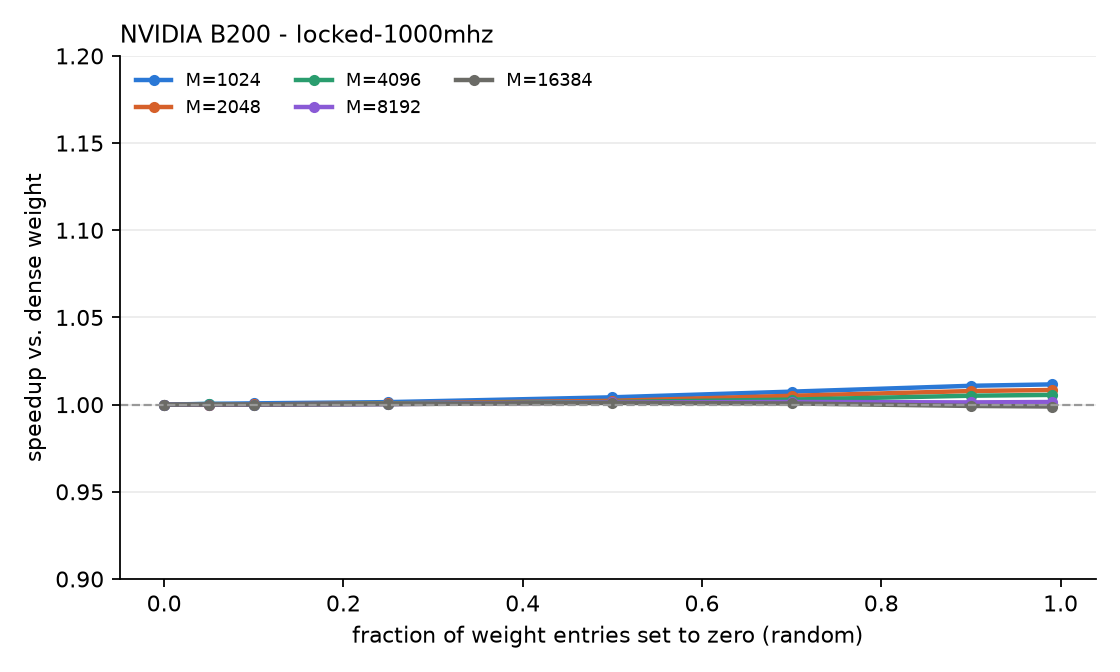
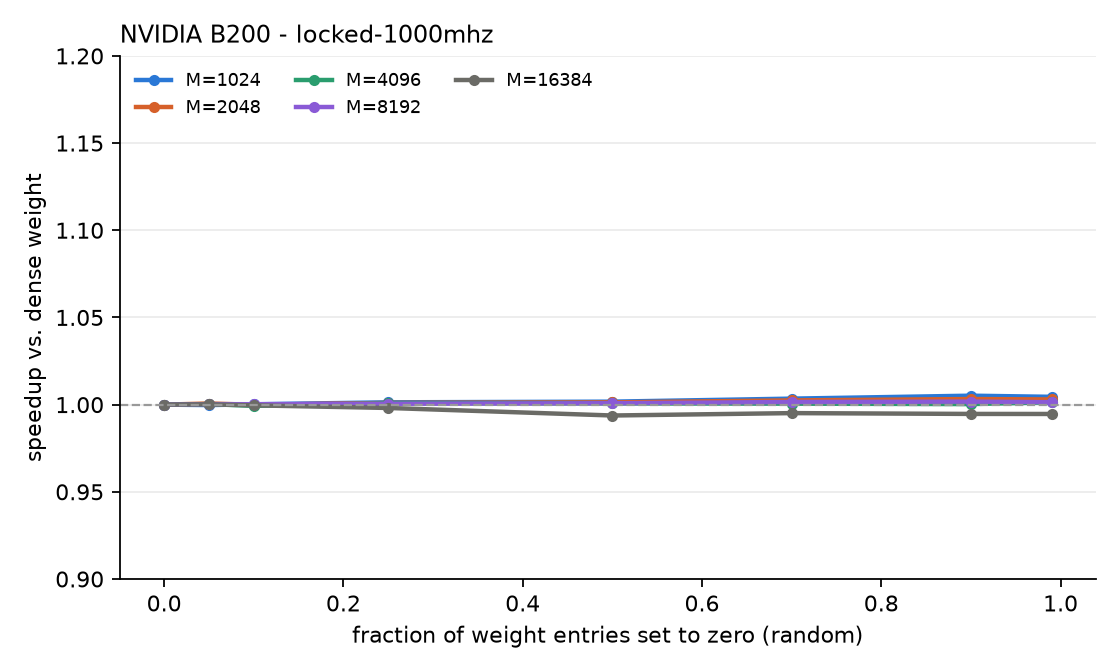
Post: results with L2 rotation, two-panel clock plots

Changed region(s): [[0.1875, 0.5625, 0.9688, 0.625]]

diff --git a/_posts/2026-10-02-sparse-matmul-speedup.md b/_posts/2026-10-02-sparse-matmul-speedup.md
@@ -22,8 +22,8 @@ _The code and raw results are available [here](https://github.com/GeometricAGI/b
 ### Setup
 
 - `x @ w` in bf16 with `w` of shape 8192x8192 and `x` of shape `M x 8192`, run with plain `torch.matmul` (cuBLAS). No sparse kernels are involved; the zeros are stored densely.
-- We set exactly that fraction of `w` to zero (5%, 10%, 25%, 50%, 70%, 90%, 99%), at positions chosen uniformly at random; the measured zero fraction matches to within 2e-7 and is stored in the results. Magnitude pruning (zeroing the smallest-magnitude weights) is also in the repo; it agrees at 99% zeros, but at 5% it is consistently faster than random zeroing on both GPUs (about 1.05-1.10x), which we have not explained, so we only tabulate random zeroing here. Everything below is "speedup over the dense weight", i.e. dense time divided by time with zeros, so values above 1.000 mean faster than dense.
-- Matmuls are captured in a CUDA graph and timed over replays. Every config is timed in 5 interleaved rounds (alternating order) and we report the median, so drift hits every config equally.
+- We set exactly that fraction of `w` to zero (5%, 10%, 25%, 50%, 70%, 90%, 99%), at positions chosen uniformly at random; the measured zero fraction matches to within 2e-7 and is stored in the results. Magnitude pruning (zeroing the smallest-magnitude weights) is also in the repo. It agrees with random zeroing at 99% zeros, but at 5% zeros it is faster than random zeroing on the B200 (1.02-1.10x vs. about 1.0x), which we have not explained, so we only tabulate random zeroing here. Everything below is "speedup over the dense weight", i.e. dense time divided by time with zeros, so values above 1.000 mean faster than dense.
+- Matmuls are captured in a CUDA graph and timed over replays. Each graph rotates through 8 independent copies of the weight, the activations and the output (each weight copy has its own random zero positions), so the same tensor is only touched again after at least a gigabyte of other traffic, far more than the L2 cache. Without this, the same 128 MiB weight would be re-read from cache on every replay. Every config is timed in 5 interleaved rounds (alternating order) and we report the median, so drift hits every config equally.
 - `M` is swept over 1024, 2048, 4096, 8192 and 16384. In an exploratory run on the H100 with smaller `M` (1, 16 and 128 rows) the matmul is memory-bound and sparsity made no difference (within 0.5%), so we start the published sweep at 1024.
 - Each GPU is run with free-running clocks and with the SM clock locked (`nvidia-smi -lgc`) at six values: 1000, 1200, 1400, 1600, 1800 MHz and the GPU's maximum (1980 MHz on the H100, 1965 MHz on the B200).
 
@@ -33,15 +33,15 @@ Speedup with 99% of the weights zeroed, free-running clocks:
 
 | | M=1024 | M=2048 | M=4096 | M=8192 | M=16384 |
 |---|---|---|---|---|---|
-| H100 | 1.206 | 1.149 | 1.112 | 1.092 | 1.111 |
-| B200 | 1.075 | 1.068 | 1.074 | 1.065 | 1.082 |
+| H100 | 1.125 | 1.111 | 1.107 | 1.148 | 1.175 |
+| B200 | 1.098 | 1.078 | 1.117 | 1.103 | 1.104 |
 
 ![H100, free-running clocks](/assets/sparse-matmul-speedup/h100-unlocked.png)
 
 ![B200, free-running clocks](/assets/sparse-matmul-speedup/b200-unlocked.png)
 
-- Speedup generally grows with the amount of zeros, up to about **1.21x on the H100 and 1.08x on the B200**.
-- At realistic sparsity (5-25%) the effect is mostly inside the run-to-run noise. On the H100 at `M=16384`, 5-50% zeros was 3-7% **slower** than dense.
+- Speedup generally grows with the amount of zeros, up to about **1.18x on the H100 and 1.12x on the B200**.
+- At realistic sparsity (5-25%) the effect is mostly inside the run-to-run noise. On the H100, 5-25% zeros was up to 2% **slower** than dense for several shapes.
 - Differences of a couple of percent between neighbouring points are within run-to-run noise.
 
 ### Locked clocks: the speedup depends on the lock
@@ -52,32 +52,33 @@ Speedup with 99% zeros for each locked SM clock (the first row is the free-runni
 
 | SM clock | M=1024 | M=2048 | M=4096 | M=8192 | M=16384 |
 |---|---|---|---|---|---|
-| free-running | 1.206 | 1.149 | 1.112 | 1.092 | 1.111 |
-| 1000 MHz | 1.000 | 1.000 | 1.000 | 1.000 | 1.001 |
-| 1200 MHz | 1.000 | 1.001 | 1.000 | 1.000 | 1.000 |
-| 1400 MHz | 1.000 | 1.001 | 1.024 | 1.001 | 1.050 |
-| 1600 MHz | 1.175 | 1.152 | 1.136 | 1.120 | 1.162 |
-| 1800 MHz | 1.196 | 1.147 | 1.122 | 1.113 | 1.162 |
-| 1980 MHz | 1.189 | 1.155 | 1.139 | 1.101 | 1.160 |
+| free-running | 1.125 | 1.111 | 1.107 | 1.148 | 1.175 |
+| 1000 MHz | 1.000 | 1.000 | 1.000 | 1.001 | 1.000 |
+| 1200 MHz | 1.000 | 1.000 | 1.000 | 1.002 | 1.004 |
+| 1400 MHz | 1.001 | 1.000 | 1.022 | 1.016 | 1.012 |
+| 1600 MHz | 1.133 | 1.109 | 1.116 | 1.159 | 1.195 |
+| 1800 MHz | 1.137 | 1.111 | 1.121 | 1.143 | 1.180 |
+| 1980 MHz | 1.134 | 1.097 | 1.123 | 1.144 | 1.186 |
 
 **B200**
 
 | SM clock | M=1024 | M=2048 | M=4096 | M=8192 | M=16384 |
 |---|---|---|---|---|---|
-| free-running | 1.075 | 1.068 | 1.074 | 1.065 | 1.082 |
-| 1000 MHz | 1.012 | 1.008 | 1.006 | 1.001 | 0.999 |
-| 1200 MHz | 1.002 | 1.003 | 1.000 | 1.001 | 1.000 |
-| 1400 MHz | 1.044 | 1.063 | 1.051 | 1.070 | 1.099 |
-| 1600 MHz | 1.063 | 1.085 | 1.097 | 1.068 | 1.075 |
-| 1800 MHz | 1.099 | 1.069 | 1.072 | 1.090 | 1.053 |
-| 1965 MHz | 1.109 | 1.076 | 1.083 | 1.100 | 1.072 |
+| free-running | 1.098 | 1.078 | 1.117 | 1.103 | 1.104 |
+| 1000 MHz | 1.004 | 1.003 | 1.001 | 1.001 | 0.995 |
+| 1200 MHz | 1.003 | 1.001 | 1.016 | 1.016 | 1.021 |
+| 1400 MHz | 1.060 | 1.078 | 1.110 | 1.108 | 1.107 |
+| 1600 MHz | 1.099 | 1.059 | 1.098 | 1.113 | 1.097 |
+| 1800 MHz | 1.077 | 1.083 | 1.114 | 1.108 | 1.106 |
+| 1965 MHz | 1.109 | 1.104 | 1.102 | 1.107 | 1.100 |
 
 ![H100, speedup vs. locked clock](/assets/sparse-matmul-speedup/h100-clock_sweep.png)
 
 ![B200, speedup vs. locked clock](/assets/sparse-matmul-speedup/b200-clock_sweep.png)
 
-- **Low locks: no effect.** At 1000 and 1200 MHz the H100 is within 0.1% of dense for every `M` and every sparsity level. The B200 is within 1.2% at 1000 MHz and 0.3% at 1200 MHz. The GPU holds the requested clock, so the work takes the same time whatever is in the weights.
-- **High locks: the speedup comes back.** On the H100 it is partly back at 1400 MHz (1.00-1.05x) and fully back, at its free-running size, from 1600 MHz up. On the B200 it is back from 1400 MHz. Above that the lock stops being the binding constraint: dense runs reach only 1260-1410 MHz on the H100 and 1155-1402 MHz on the B200 no matter how high we set the lock, because the power limit decides the clock. Sparser weights draw less power, so they sustain a somewhat higher clock.
+- **Low locks: no effect.** At 1000 and 1200 MHz the H100 is within 0.4% of dense for every `M` and every sparsity level, and the B200 is within 0.6% at 1000 MHz. The GPU holds the requested clock, so the work takes the same time whatever is in the weights.
+- **High locks: the speedup comes back.** On the H100 it is mixed at 1400 MHz (0.92-1.02x) and fully back, at its free-running size, from 1600 MHz up. On the B200 it is back from 1400 MHz, and partly there already at 1200 MHz (up to 1.02x for the larger shapes). Above that the lock stops being the binding constraint: dense runs reach only 1320-1410 MHz on the H100 and 1185-1320 MHz on the B200 no matter how high we set the lock, because the power limit decides the clock. Sparser weights draw less power, so they sustain a somewhat higher clock.
+- The right-hand panels plot the same speedups against the clock the dense run actually reached (a single NVML sample per run, so noisy). The 1600-1980 MHz locks all land on top of each other at about 1320-1400 MHz, which is why they give the same speedup. The 1400 MHz lock reaches a similar clock yet shows little speedup, so the sampled clock alone does not predict the effect; what matters is whether the power limit is binding.
 - A clock lock is therefore only a control if it is set below the clock the GPU would sustain at its power limit for that workload.
 
 ### Full results
@@ -88,11 +89,11 @@ The tables below give the speedup for every `M` and sparsity level for each cloc
 
 | M | 5% | 10% | 25% | 50% | 70% | 90% | 99% |
 |---|---|---|---|---|---|---|---|
-| 1024 | 1.033 | 1.033 | 1.058 | 1.109 | 1.158 | 1.187 | 1.206 |
-| 2048 | 0.992 | 0.992 | 1.001 | 1.027 | 1.056 | 1.115 | 1.149 |
-| 4096 | 0.990 | 0.987 | 0.992 | 0.992 | 1.017 | 1.099 | 1.112 |
-| 8192 | 1.007 | 1.000 | 1.018 | 1.022 | 1.029 | 1.086 | 1.092 |
-| 16384 | 0.942 | 0.926 | 0.928 | 0.969 | 1.001 | 1.083 | 1.111 |
+| 1024 | 0.998 | 0.983 | 0.983 | 1.015 | 1.048 | 1.103 | 1.125 |
+| 2048 | 0.989 | 0.986 | 0.985 | 1.002 | 1.039 | 1.090 | 1.111 |
+| 4096 | 0.999 | 0.989 | 1.003 | 1.032 | 1.068 | 1.108 | 1.107 |
+| 8192 | 1.036 | 1.031 | 1.033 | 1.059 | 1.097 | 1.123 | 1.148 |
+| 16384 | 0.994 | 0.973 | 0.978 | 1.009 | 1.048 | 1.135 | 1.175 |
 
 </details>
 
@@ -100,11 +101,11 @@ The tables below give the speedup for every `M` and sparsity level for each cloc
 
 | M | 5% | 10% | 25% | 50% | 70% | 90% | 99% |
 |---|---|---|---|---|---|---|---|
-| 1024 | 1.000 | 1.000 | 1.000 | 1.000 | 1.000 | 1.001 | 1.000 |
+| 1024 | 1.000 | 1.000 | 1.000 | 1.000 | 1.000 | 1.000 | 1.000 |
 | 2048 | 1.000 | 1.000 | 1.000 | 1.000 | 1.000 | 1.000 | 1.000 |
 | 4096 | 1.000 | 1.000 | 1.000 | 1.000 | 1.000 | 1.000 | 1.000 |
-| 8192 | 1.000 | 1.000 | 1.000 | 1.000 | 1.000 | 1.000 | 1.000 |
-| 16384 | 1.000 | 1.000 | 1.000 | 1.001 | 1.000 | 1.001 | 1.001 |
+| 8192 | 1.000 | 1.000 | 1.000 | 1.000 | 1.001 | 1.001 | 1.001 |
+| 16384 | 1.000 | 1.000 | 1.000 | 1.000 | 1.000 | 1.000 | 1.000 |
 
 </details>
 
@@ -112,11 +113,11 @@ The tables below give the speedup for every `M` and sparsity level for each cloc
 
 | M | 5% | 10% | 25% | 50% | 70% | 90% | 99% |
 |---|---|---|---|---|---|---|---|
-| 1024 | 1.000 | 1.000 | 1.000 | 1.000 | 1.000 | 1.001 | 1.000 |
-| 2048 | 1.001 | 1.001 | 1.001 | 1.001 | 1.001 | 1.001 | 1.001 |
-| 4096 | 1.000 | 1.000 | 1.000 | 1.000 | 1.000 | 1.000 | 1.000 |
-| 8192 | 1.000 | 1.000 | 1.000 | 1.000 | 1.000 | 1.000 | 1.000 |
-| 16384 | 1.000 | 1.000 | 1.000 | 1.000 | 1.000 | 1.001 | 1.000 |
+| 1024 | 0.998 | 1.000 | 1.000 | 1.000 | 1.001 | 1.000 | 1.000 |
+| 2048 | 1.000 | 0.997 | 1.000 | 1.000 | 1.000 | 1.000 | 1.000 |
+| 4096 | 0.998 | 1.000 | 1.000 | 1.000 | 1.000 | 1.000 | 1.000 |
+| 8192 | 1.000 | 1.002 | 1.000 | 1.002 | 1.002 | 1.003 | 1.002 |
+| 16384 | 1.003 | 1.002 | 0.999 | 0.999 | 1.004 | 1.004 | 1.004 |
 
 </details>
 
@@ -124,11 +125,11 @@ The tables below give the speedup for every `M` and sparsity level for each cloc
 
 | M | 5% | 10% | 25% | 50% | 70% | 90% | 99% |
 |---|---|---|---|---|---|---|---|
-| 1024 | 1.000 | 1.000 | 1.000 | 1.000 | 1.000 | 1.001 | 1.000 |
-| 2048 | 0.998 | 0.998 | 0.999 | 1.000 | 1.001 | 1.001 | 1.001 |
-| 4096 | 1.024 | 1.024 | 1.024 | 1.024 | 1.024 | 1.024 | 1.024 |
-| 8192 | 1.001 | 1.001 | 1.001 | 1.001 | 1.001 | 1.001 | 1.001 |
-| 16384 | 1.016 | 1.027 | 1.035 | 1.004 | 1.044 | 1.051 | 1.050 |
+| 1024 | 1.000 | 1.000 | 1.001 | 1.001 | 1.001 | 1.002 | 1.001 |
+| 2048 | 1.000 | 1.000 | 1.001 | 1.001 | 1.001 | 1.001 | 1.000 |
+| 4096 | 1.010 | 1.018 | 1.022 | 1.020 | 1.022 | 1.022 | 1.022 |
+| 8192 | 1.008 | 1.013 | 1.014 | 1.014 | 1.016 | 1.015 | 1.016 |
+| 16384 | 0.975 | 0.916 | 0.947 | 1.002 | 1.009 | 1.011 | 1.012 |
 
 </details>
 
@@ -136,11 +137,11 @@ The tables below give the speedup for every `M` and sparsity level for each cloc
 
 | M | 5% | 10% | 25% | 50% | 70% | 90% | 99% |
 |---|---|---|---|---|---|---|---|
-| 1024 | 1.012 | 1.012 | 1.024 | 1.061 | 1.130 | 1.158 | 1.175 |
-| 2048 | 0.998 | 0.985 | 0.991 | 1.018 | 1.039 | 1.129 | 1.152 |
-| 4096 | 0.990 | 0.984 | 0.993 | 1.011 | 1.038 | 1.130 | 1.136 |
-| 8192 | 0.997 | 0.989 | 1.002 | 1.013 | 1.055 | 1.123 | 1.120 |
-| 16384 | 0.969 | 0.956 | 0.956 | 0.991 | 1.028 | 1.129 | 1.162 |
+| 1024 | 1.002 | 1.005 | 1.007 | 1.043 | 1.059 | 1.123 | 1.133 |
+| 2048 | 0.988 | 0.978 | 0.988 | 1.004 | 1.028 | 1.096 | 1.109 |
+| 4096 | 0.999 | 0.983 | 1.001 | 1.032 | 1.074 | 1.106 | 1.116 |
+| 8192 | 1.026 | 1.022 | 1.026 | 1.046 | 1.093 | 1.128 | 1.159 |
+| 16384 | 1.017 | 1.008 | 0.993 | 1.025 | 1.082 | 1.162 | 1.195 |
 
 </details>
 
@@ -148,11 +149,11 @@ The tables below give the speedup for every `M` and sparsity level for each cloc
 
 | M | 5% | 10% | 25% | 50% | 70% | 90% | 99% |
 |---|---|---|---|---|---|---|---|
-| 1024 | 1.007 | 1.032 | 1.054 | 1.087 | 1.120 | 1.175 | 1.196 |
-| 2048 | 0.984 | 0.984 | 0.990 | 1.015 | 1.033 | 1.128 | 1.147 |
-| 4096 | 1.002 | 1.002 | 1.001 | 1.007 | 1.034 | 1.119 | 1.122 |
-| 8192 | 0.999 | 0.998 | 1.005 | 1.041 | 1.044 | 1.105 | 1.113 |
-| 16384 | 0.971 | 0.951 | 0.956 | 0.973 | 1.027 | 1.124 | 1.162 |
+| 1024 | 1.000 | 1.001 | 1.001 | 1.008 | 1.062 | 1.123 | 1.137 |
+| 2048 | 0.992 | 0.992 | 0.984 | 1.016 | 1.042 | 1.100 | 1.111 |
+| 4096 | 0.989 | 0.996 | 0.994 | 1.041 | 1.068 | 1.108 | 1.121 |
+| 8192 | 1.021 | 1.017 | 1.021 | 1.044 | 1.077 | 1.120 | 1.143 |
+| 16384 | 0.999 | 0.988 | 0.974 | 1.006 | 1.050 | 1.142 | 1.180 |
 
 </details>
 
@@ -160,11 +161,11 @@ The tables below give the speedup for every `M` and sparsity level for each cloc
 
 | M | 5% | 10% | 25% | 50% | 70% | 90% | 99% |
 |---|---|---|---|---|---|---|---|
-| 1024 | 1.009 | 1.021 | 1.040 | 1.085 | 1.115 | 1.163 | 1.189 |
-| 2048 | 0.993 | 0.994 | 1.002 | 1.028 | 1.045 | 1.134 | 1.155 |
-| 4096 | 1.000 | 0.991 | 0.996 | 1.006 | 1.033 | 1.115 | 1.139 |
-| 8192 | 1.014 | 1.012 | 1.020 | 1.026 | 1.061 | 1.134 | 1.101 |
-| 16384 | 0.967 | 0.947 | 0.957 | 0.977 | 1.030 | 1.119 | 1.160 |
+| 1024 | 1.000 | 0.999 | 1.009 | 1.040 | 1.063 | 1.117 | 1.134 |
+| 2048 | 0.990 | 0.990 | 0.990 | 1.000 | 1.047 | 1.093 | 1.097 |
+| 4096 | 0.998 | 0.986 | 1.003 | 1.045 | 1.066 | 1.104 | 1.123 |
+| 8192 | 1.013 | 1.020 | 1.015 | 1.046 | 1.064 | 1.122 | 1.144 |
+| 16384 | 1.015 | 0.992 | 0.984 | 1.016 | 1.070 | 1.148 | 1.186 |
 
 </details>
 
@@ -172,11 +173,11 @@ The tables below give the speedup for every `M` and sparsity level for each cloc
 
 | M | 5% | 10% | 25% | 50% | 70% | 90% | 99% |
 |---|---|---|---|---|---|---|---|
-| 1024 | 1.000 | 1.001 | 1.023 | 1.039 | 1.064 | 1.064 | 1.075 |
-| 2048 | 0.992 | 0.991 | 1.009 | 1.027 | 1.037 | 1.048 | 1.068 |
-| 4096 | 1.001 | 1.006 | 1.022 | 1.051 | 1.072 | 1.073 | 1.074 |
-| 8192 | 0.994 | 0.995 | 1.012 | 1.019 | 1.056 | 1.043 | 1.065 |
-| 16384 | 0.996 | 1.001 | 1.006 | 1.026 | 1.049 | 1.069 | 1.082 |
+| 1024 | 1.000 | 1.006 | 1.011 | 1.054 | 1.074 | 1.071 | 1.098 |
+| 2048 | 0.978 | 0.997 | 0.989 | 1.023 | 1.037 | 1.062 | 1.078 |
+| 4096 | 0.994 | 0.993 | 1.013 | 1.044 | 1.063 | 1.074 | 1.117 |
+| 8192 | 1.003 | 1.003 | 1.022 | 1.036 | 1.060 | 1.076 | 1.103 |
+| 16384 | 1.000 | 1.000 | 1.008 | 1.035 | 1.070 | 1.086 | 1.104 |
 
 </details>
 
@@ -184,11 +185,11 @@ The tables below give the speedup for every `M` and sparsity level for each cloc
 
 | M | 5% | 10% | 25% | 50% | 70% | 90% | 99% |
 |---|---|---|---|---|---|---|---|
-| 1024 | 1.000 | 1.001 | 1.001 | 1.004 | 1.007 | 1.011 | 1.012 |
-| 2048 | 1.000 | 1.000 | 1.001 | 1.002 | 1.005 | 1.008 | 1.008 |
-| 4096 | 1.000 | 1.000 | 1.001 | 1.001 | 1.003 | 1.005 | 1.006 |
-| 8192 | 1.000 | 1.000 | 1.000 | 1.001 | 1.002 | 1.001 | 1.001 |
-| 16384 | 1.000 | 1.000 | 1.000 | 1.001 | 1.001 | 0.999 | 0.999 |
+| 1024 | 1.000 | 1.000 | 1.001 | 1.002 | 1.003 | 1.005 | 1.004 |
+| 2048 | 1.001 | 1.000 | 1.001 | 1.001 | 1.002 | 1.003 | 1.003 |
+| 4096 | 1.000 | 0.999 | 1.001 | 1.001 | 1.001 | 1.000 | 1.001 |
+| 8192 | 1.000 | 1.000 | 1.001 | 1.001 | 1.002 | 1.002 | 1.001 |
+| 16384 | 1.000 | 1.000 | 0.998 | 0.994 | 0.995 | 0.995 | 0.995 |
 
 </details>
 
@@ -196,11 +197,11 @@ The tables below give the speedup for every `M` and sparsity level for each cloc
 
 | M | 5% | 10% | 25% | 50% | 70% | 90% | 99% |
 |---|---|---|---|---|---|---|---|
-| 1024 | 1.001 | 0.999 | 0.999 | 1.000 | 1.000 | 1.002 | 1.002 |
-| 2048 | 1.000 | 1.000 | 1.001 | 1.001 | 1.002 | 1.003 | 1.003 |
-| 4096 | 1.000 | 1.000 | 1.000 | 1.000 | 1.000 | 1.000 | 1.000 |
-| 8192 | 1.000 | 1.000 | 1.000 | 1.000 | 1.000 | 1.001 | 1.001 |
-| 16384 | 1.000 | 1.000 | 1.000 | 1.000 | 1.000 | 1.000 | 1.000 |
+| 1024 | 1.000 | 1.000 | 1.001 | 1.002 | 1.002 | 1.003 | 1.003 |
+| 2048 | 1.000 | 1.000 | 1.000 | 1.001 | 1.001 | 1.001 | 1.001 |
+| 4096 | 0.993 | 1.007 | 1.014 | 1.015 | 1.015 | 1.015 | 1.016 |
+| 8192 | 0.989 | 0.992 | 1.015 | 1.015 | 1.016 | 1.016 | 1.016 |
+| 16384 | 1.004 | 1.002 | 1.008 | 1.021 | 1.021 | 1.021 | 1.021 |
 
 </details>
 
@@ -208,11 +209,11 @@ The tables below give the speedup for every `M` and sparsity level for each cloc
 
 | M | 5% | 10% | 25% | 50% | 70% | 90% | 99% |
 |---|---|---|---|---|---|---|---|
-| 1024 | 1.020 | 1.041 | 1.042 | 1.042 | 1.043 | 1.044 | 1.044 |
-| 2048 | 1.017 | 1.013 | 1.019 | 1.025 | 1.043 | 1.059 | 1.063 |
-| 4096 | 0.999 | 1.000 | 1.012 | 1.019 | 1.044 | 1.068 | 1.051 |
-| 8192 | 1.022 | 1.073 | 1.029 | 1.041 | 1.068 | 1.067 | 1.070 |
-| 16384 | 1.000 | 1.005 | 1.014 | 1.022 | 1.033 | 1.054 | 1.099 |
+| 1024 | 1.000 | 1.002 | 1.022 | 1.046 | 1.057 | 1.059 | 1.060 |
+| 2048 | 1.006 | 0.996 | 1.002 | 1.027 | 1.059 | 1.065 | 1.078 |
+| 4096 | 0.997 | 0.994 | 1.015 | 1.033 | 1.056 | 1.073 | 1.110 |
+| 8192 | 0.987 | 1.005 | 1.011 | 1.034 | 1.060 | 1.079 | 1.108 |
+| 16384 | 1.004 | 1.003 | 1.012 | 1.034 | 1.062 | 1.096 | 1.107 |
 
 </details>
 
@@ -220,11 +221,11 @@ The tables below give the speedup for every `M` and sparsity level for each cloc
 
 | M | 5% | 10% | 25% | 50% | 70% | 90% | 99% |
 |---|---|---|---|---|---|---|---|
-| 1024 | 1.007 | 1.014 | 1.024 | 1.034 | 1.048 | 1.058 | 1.063 |
-| 2048 | 1.004 | 1.012 | 1.019 | 1.023 | 1.037 | 1.052 | 1.085 |
-| 4096 | 1.005 | 1.009 | 1.024 | 1.034 | 1.073 | 1.068 | 1.097 |
-| 8192 | 1.002 | 1.020 | 1.058 | 1.024 | 1.055 | 1.046 | 1.068 |
-| 16384 | 0.989 | 1.001 | 1.014 | 1.021 | 1.028 | 1.050 | 1.075 |
+| 1024 | 1.001 | 1.002 | 1.029 | 1.046 | 1.070 | 1.073 | 1.099 |
+| 2048 | 1.001 | 1.003 | 1.013 | 1.030 | 1.045 | 1.058 | 1.059 |
+| 4096 | 0.996 | 0.987 | 0.997 | 1.031 | 1.049 | 1.071 | 1.098 |
+| 8192 | 1.009 | 0.996 | 1.026 | 1.043 | 1.072 | 1.105 | 1.113 |
+| 16384 | 1.001 | 1.001 | 1.006 | 1.034 | 1.058 | 1.093 | 1.097 |
 
 </details>
 
@@ -232,11 +233,11 @@ The tables below give the speedup for every `M` and sparsity level for each cloc
 
 | M | 5% | 10% | 25% | 50% | 70% | 90% | 99% |
 |---|---|---|---|---|---|---|---|
-| 1024 | 1.002 | 1.014 | 1.017 | 1.040 | 1.049 | 1.068 | 1.099 |
-| 2048 | 1.003 | 1.004 | 1.008 | 1.011 | 1.041 | 1.068 | 1.069 |
-| 4096 | 1.000 | 1.001 | 1.015 | 1.025 | 1.050 | 1.078 | 1.072 |
-| 8192 | 1.022 | 1.018 | 1.023 | 1.038 | 1.047 | 1.064 | 1.090 |
-| 16384 | 0.988 | 0.979 | 1.010 | 1.020 | 1.057 | 1.058 | 1.053 |
+| 1024 | 1.001 | 1.002 | 1.015 | 1.043 | 1.078 | 1.037 | 1.077 |
+| 2048 | 0.987 | 0.986 | 0.990 | 1.009 | 1.041 | 1.052 | 1.083 |
+| 4096 | 0.994 | 1.000 | 1.004 | 1.042 | 1.057 | 1.074 | 1.114 |
+| 8192 | 0.987 | 1.003 | 1.017 | 1.038 | 1.059 | 1.095 | 1.108 |
+| 16384 | 1.003 | 1.003 | 1.011 | 1.034 | 1.061 | 1.095 | 1.106 |
 
 </details>
 
@@ -244,11 +245,11 @@ The tables below give the speedup for every `M` and sparsity level for each cloc
 
 | M | 5% | 10% | 25% | 50% | 70% | 90% | 99% |
 |---|---|---|---|---|---|---|---|
-| 1024 | 1.000 | 1.000 | 1.019 | 1.040 | 1.066 | 1.049 | 1.109 |
-| 2048 | 1.002 | 1.004 | 1.013 | 1.015 | 1.029 | 1.052 | 1.076 |
-| 4096 | 1.004 | 1.012 | 1.013 | 1.021 | 1.051 | 1.035 | 1.083 |
-| 8192 | 1.011 | 1.011 | 1.025 | 1.026 | 1.050 | 1.083 | 1.100 |
-| 16384 | 1.004 | 1.005 | 1.009 | 1.025 | 1.040 | 1.055 | 1.072 |
+| 1024 | 1.000 | 0.996 | 1.005 | 1.043 | 1.067 | 1.054 | 1.109 |
+| 2048 | 1.009 | 1.000 | 1.017 | 1.029 | 1.050 | 1.074 | 1.104 |
+| 4096 | 1.000 | 0.993 | 1.009 | 1.034 | 1.054 | 1.074 | 1.102 |
+| 8192 | 0.997 | 1.011 | 1.011 | 1.032 | 1.057 | 1.093 | 1.107 |
+| 16384 | 1.000 | 0.999 | 1.004 | 1.029 | 1.059 | 1.090 | 1.100 |
 
 </details>
 
